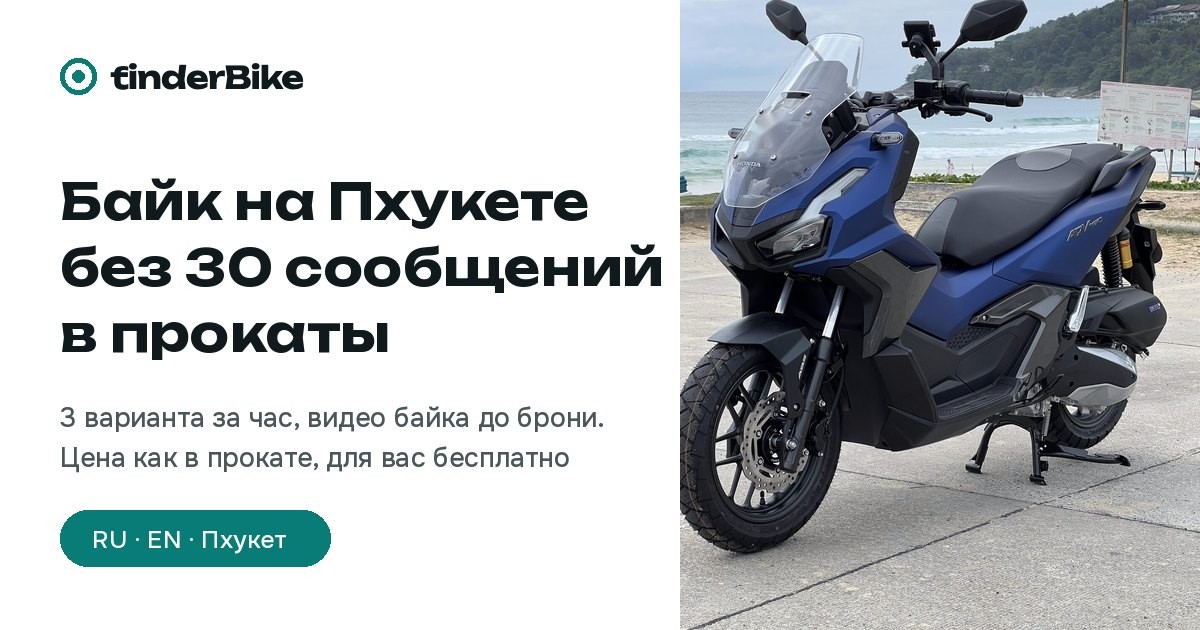
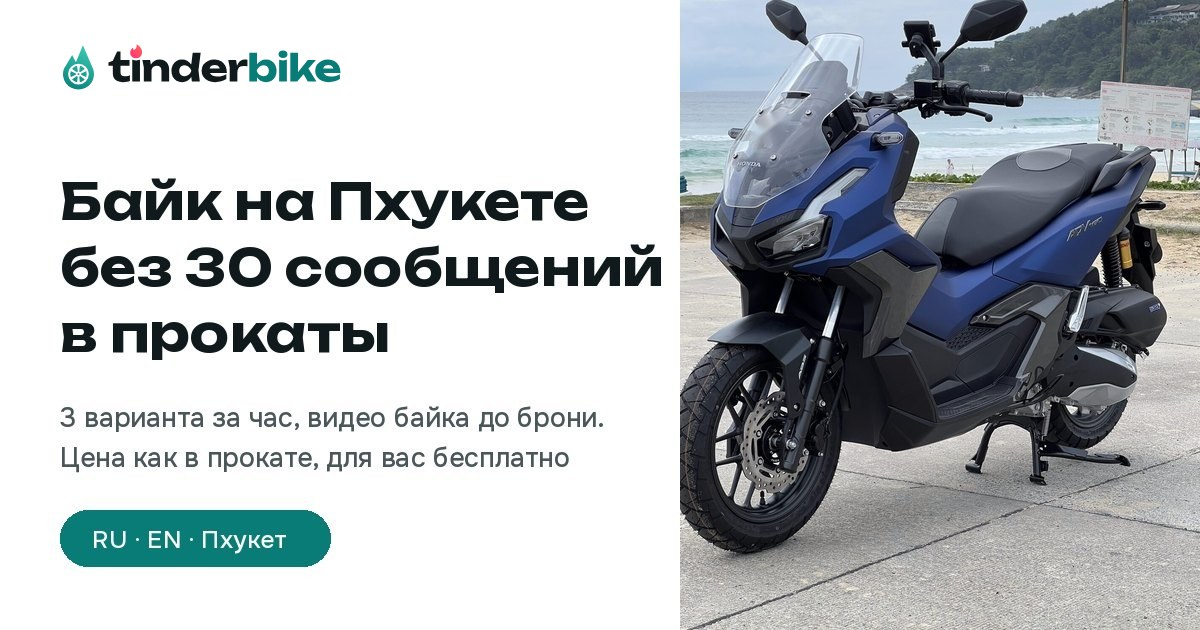
Логотип v4: знак пламя с колесом, слово tinderbike в два цвета, огонёк над i с картинки Дмитрия
Логотип теперь целиком SVG-символом (шапка и подвал), новая иконка вкладки и превью ссылки og.jpg?v=3, на узких телефонах логотип ужимается и не выталкивает иконки

Changed region(s): [[0.0308, 0.0603, 0.3083, 0.1508]]

diff --git a/assets/style.css b/assets/style.css
@@ -72,12 +72,11 @@ ul,ol{margin:0;padding:0;list-style:none}
 /* ---------- header ---------- */
 .hdr{position:sticky;top:0;z-index:40;background:var(--band);color:#fff}
 .hdr__in{display:flex;align-items:center;justify-content:space-between;height:var(--hdr-h);gap:12px}
-.logo{display:inline-flex;align-items:center;gap:9px;color:#fff;text-decoration:none;font:700 18px/1 var(--f-head);font-family:"Unbounded",ui-sans-serif,system-ui,sans-serif;letter-spacing:-.02em}
-.logo__mark{width:26px;height:26px}
-.logo__word{white-space:nowrap}
-.logo__ft{display:inline-block;width:.6em;height:.765em;vertical-align:-.0164em;margin-right:-.02em;fill:currentColor}
-.logo--ink{color:var(--ink)}
-.logo--ink .logo__mark{color:var(--accent)}
+.logo{display:inline-flex;align-items:center;flex:none;text-decoration:none}
+.logo__svg{display:block;height:27px;width:165px}
+@media (max-width:400px){.logo__svg{height:23px;width:141px}.hdr__in{gap:8px}}
+@media (max-width:374px){.lang__code{display:none}.logo__svg{height:21px;width:129px}}
+@media (max-width:350px){.logo__svg{height:19px;width:116px}.hdr__right{gap:4px}}
 .hdr__right{display:flex;align-items:center;gap:6px}
 .hdr__ic{display:grid;place-items:center;width:40px;height:40px;border-radius:10px;color:#fff;transition:background-color .18s var(--ease)}
 .hdr__ic:hover{background:rgba(255,255,255,.14)}

diff --git a/en/index.html b/en/index.html
@@ -3,7 +3,7 @@
 <meta name="viewport" content="width=device-width, initial-scale=1">
 <meta property="og:title" content="FinderBike - a bike in Phuket without messaging 30 rental shops">
 <meta property="og:description" content="3 options within an hour, a video of the actual bike before you book, same price as at the shop. Free for you">
-<meta property="og:image" content="https://finderbike.github.io/og.jpg">
+<meta property="og:image" content="https://finderbike.github.io/og.jpg?v=3">
 <meta http-equiv="refresh" content="0; url=../?lang=en">
 <link rel="canonical" href="https://finderbike.github.io/?lang=en">
 </head><body><a href="../?lang=en">FinderBike in English</a></body></html>
